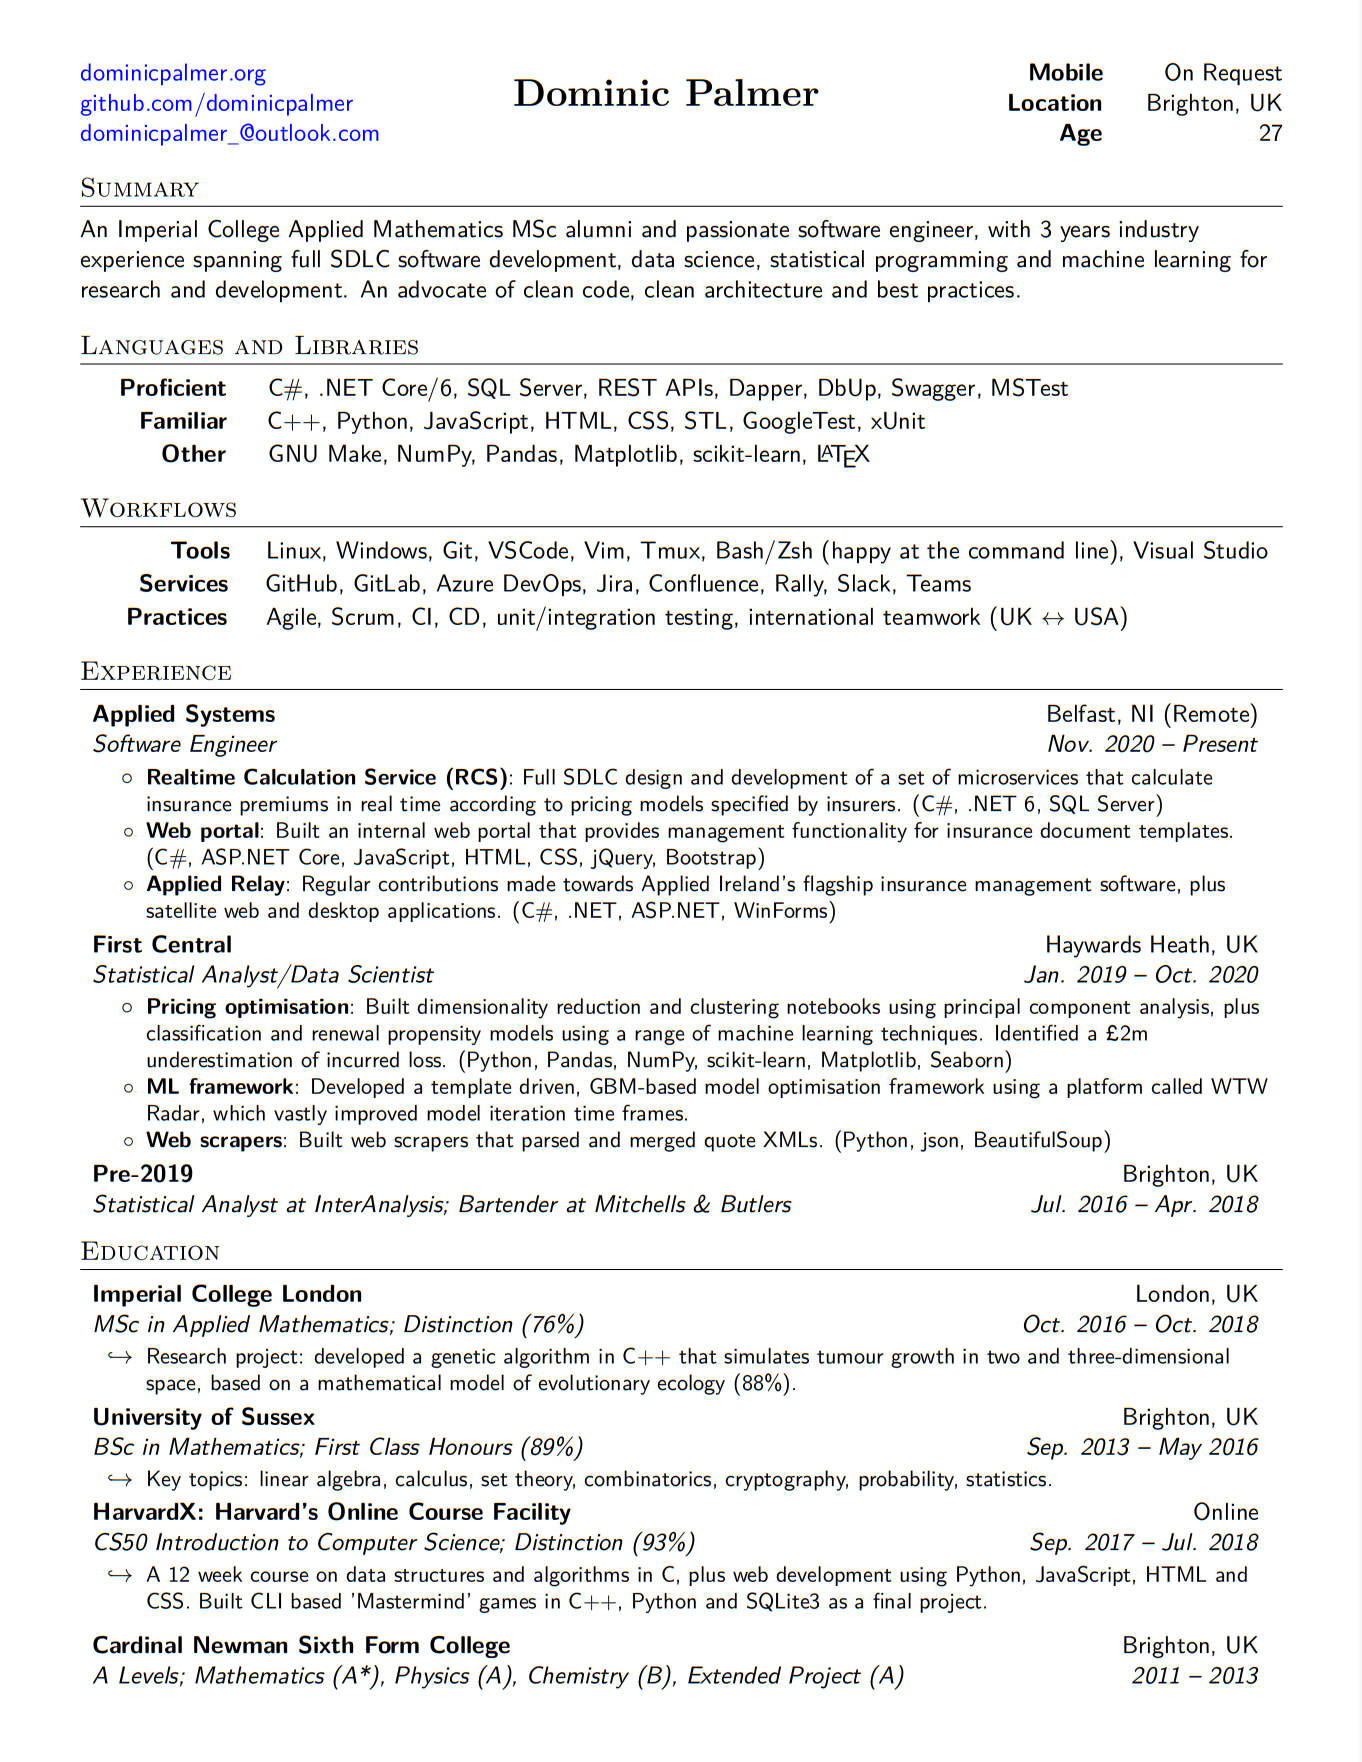
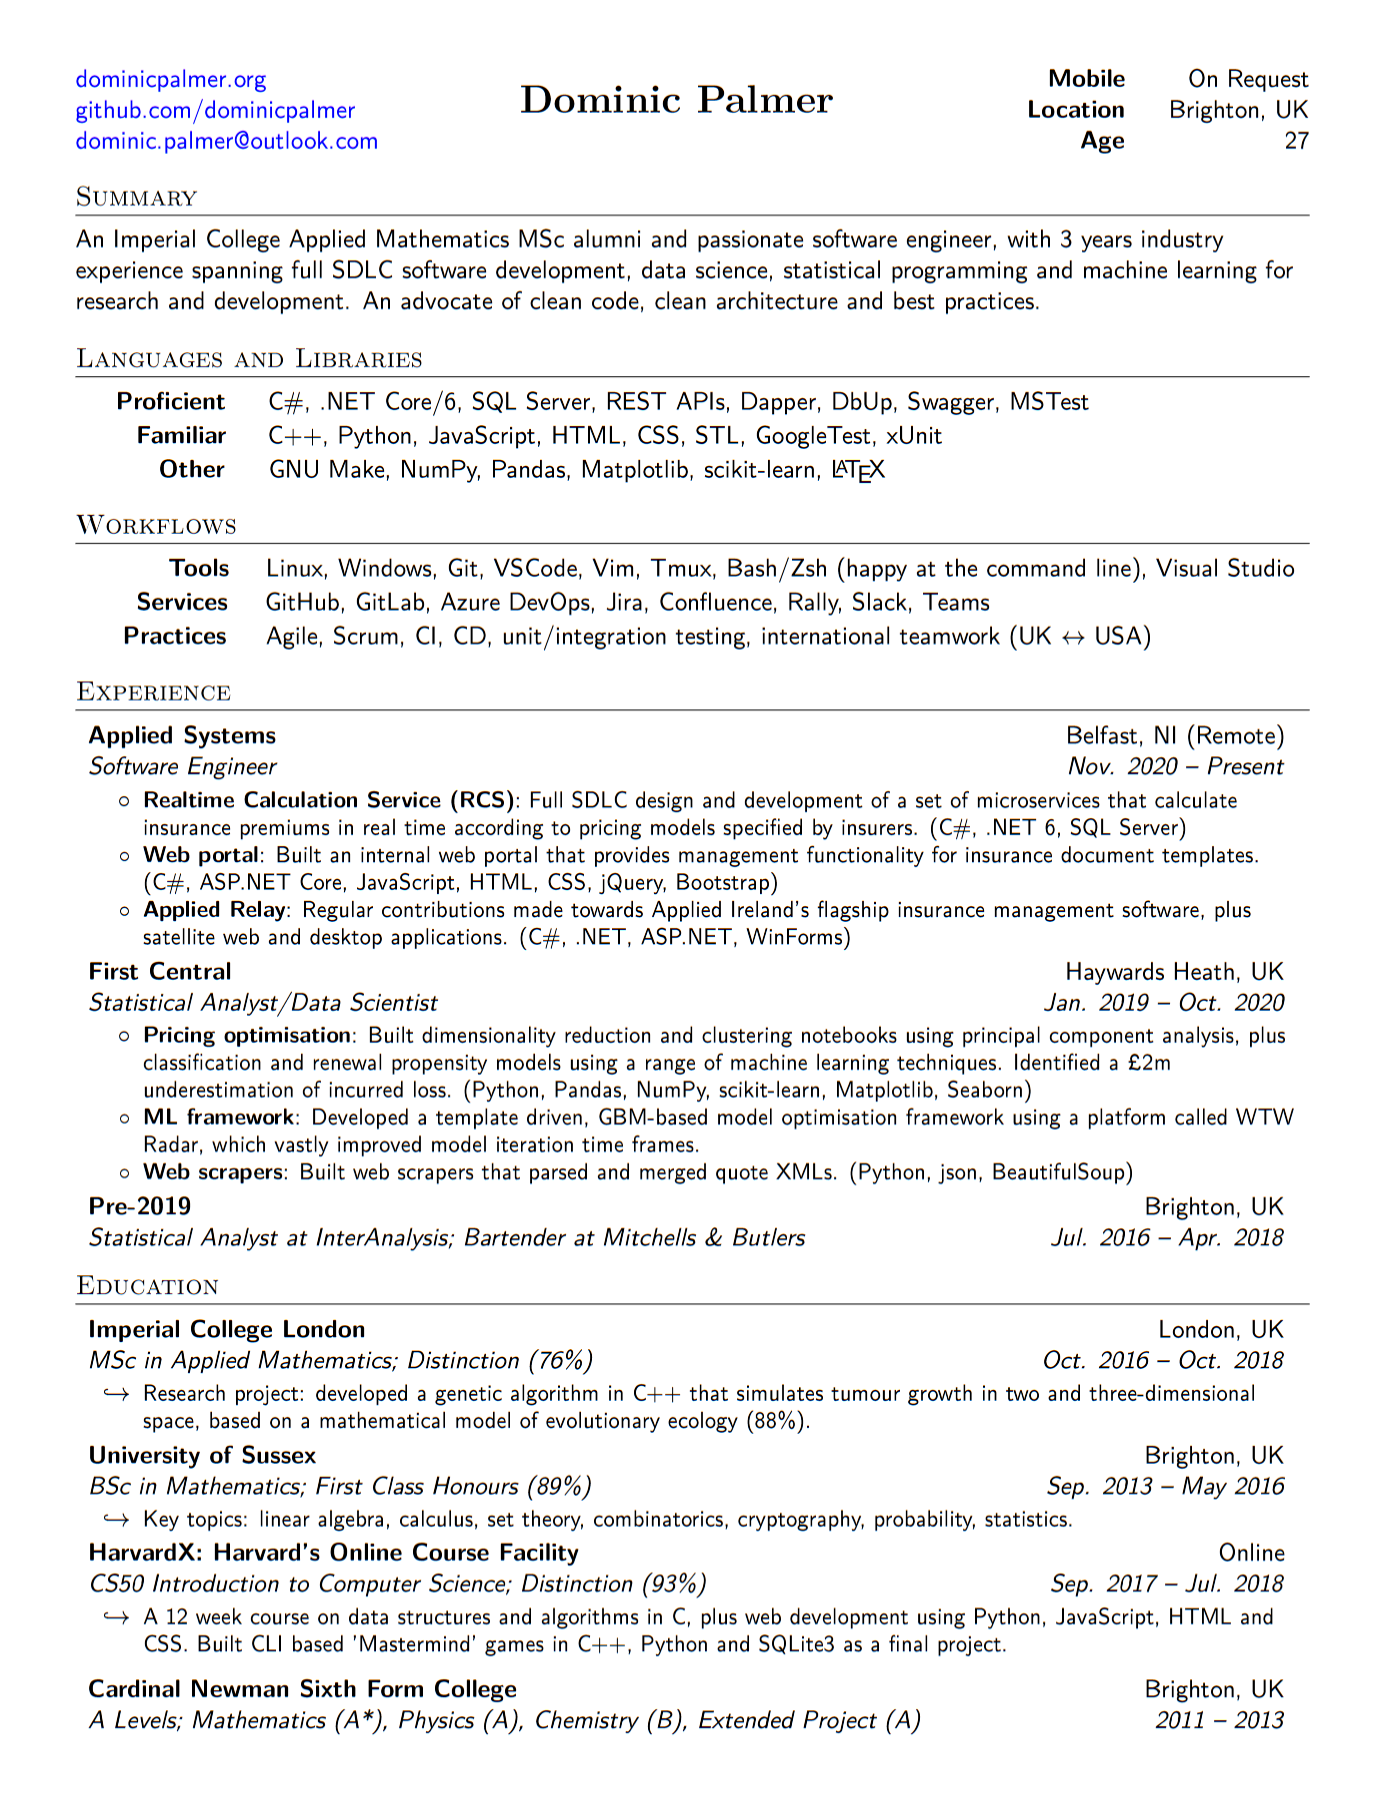
Replaced email

Changed region(s): [[0.0617, 0.0312, 0.9251, 0.9677], [0.7401, 0.0312, 0.9559, 0.0936], [0.37, 0.0312, 0.6167, 0.0624]]

diff --git a/_pages/contact.html b/_pages/contact.html
@@ -10,7 +10,7 @@ redirect_from:
 <hr>
 
 <p class="article-text article-content-start">
-    The best way to contact me is via email at <a class="article-text-link" href="mailto:dominicpalmer_@outlook.com">dominicpalmer_@outlook.com</a>,
+    The best way to contact me is via email at <a class="article-text-link" href="mailto:dominic.palmer@outlook.com">dominic.palmer@outlook.com</a>,
     but I do pick up and respond to messages on LinkedIn too.<br><br>
 
     With LinkedIn as the one exception, I don't use social media. For a faster way to get in touch, send me a message

diff --git a/index.html b/index.html
@@ -17,7 +17,7 @@ header:
       url: "https://www.linkedin.com/in/dompalmer"
     - label: "Email"
       icon: "fas fa-fw fa-envelope-square"
-      url: "mailto:dominicpalmer_@outlook.com"
+      url: "mailto:dominic.palmer@outlook.com"
 author_profile: true
 ---
 
